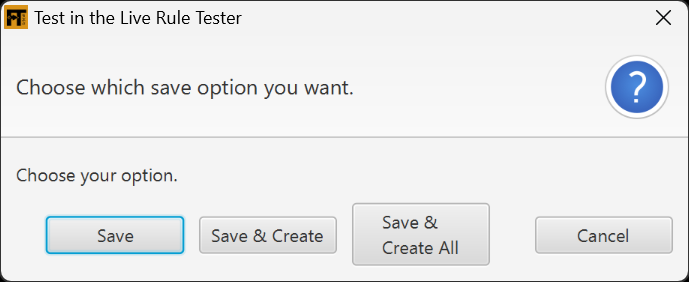
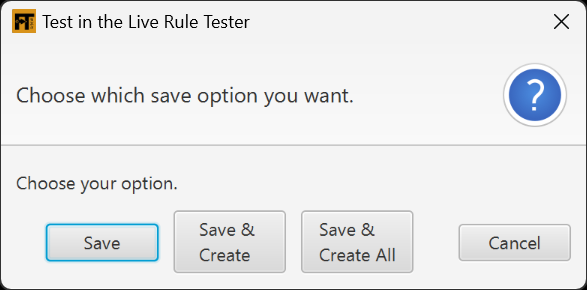
The Test in LRT dialog did not show the Save & Create text fully.

diff --git a/src/org/sil/ftrulegen/view/MainController.java b/src/org/sil/ftrulegen/view/MainController.java
@@ -1419,9 +1419,9 @@ public class MainController implements Initializable {
 		alert.setContentText(bundle.getString("lrt.content"));
 
 		ButtonType btnSave = new ButtonType(bundle.getString("view.Save"));
-		ButtonType btnSaveCreate = new ButtonType(bundle.getString("view.SaveCreate"));
-		// Note: for some odd reason, using view.SaveCreateAll shows correctly when launched from the IDE
+		// Note: for some odd reason, using view.SaveCreate and view.SaveCreateAll shows correctly when launched from the IDE
 		// but not when installed.  So we use the view.SaveCreateAllTestInLRT version here which works in both
+		ButtonType btnSaveCreate = new ButtonType(bundle.getString("view.SaveCreateInLRT"));
 		ButtonType btnSaveCreateAll = new ButtonType(bundle.getString("view.SaveCreateAllTestInLRT"));
 		ButtonType buttonTypeCancel = new ButtonType(bundle.getString("chooser.Cancel"), ButtonData.CANCEL_CLOSE);
 
